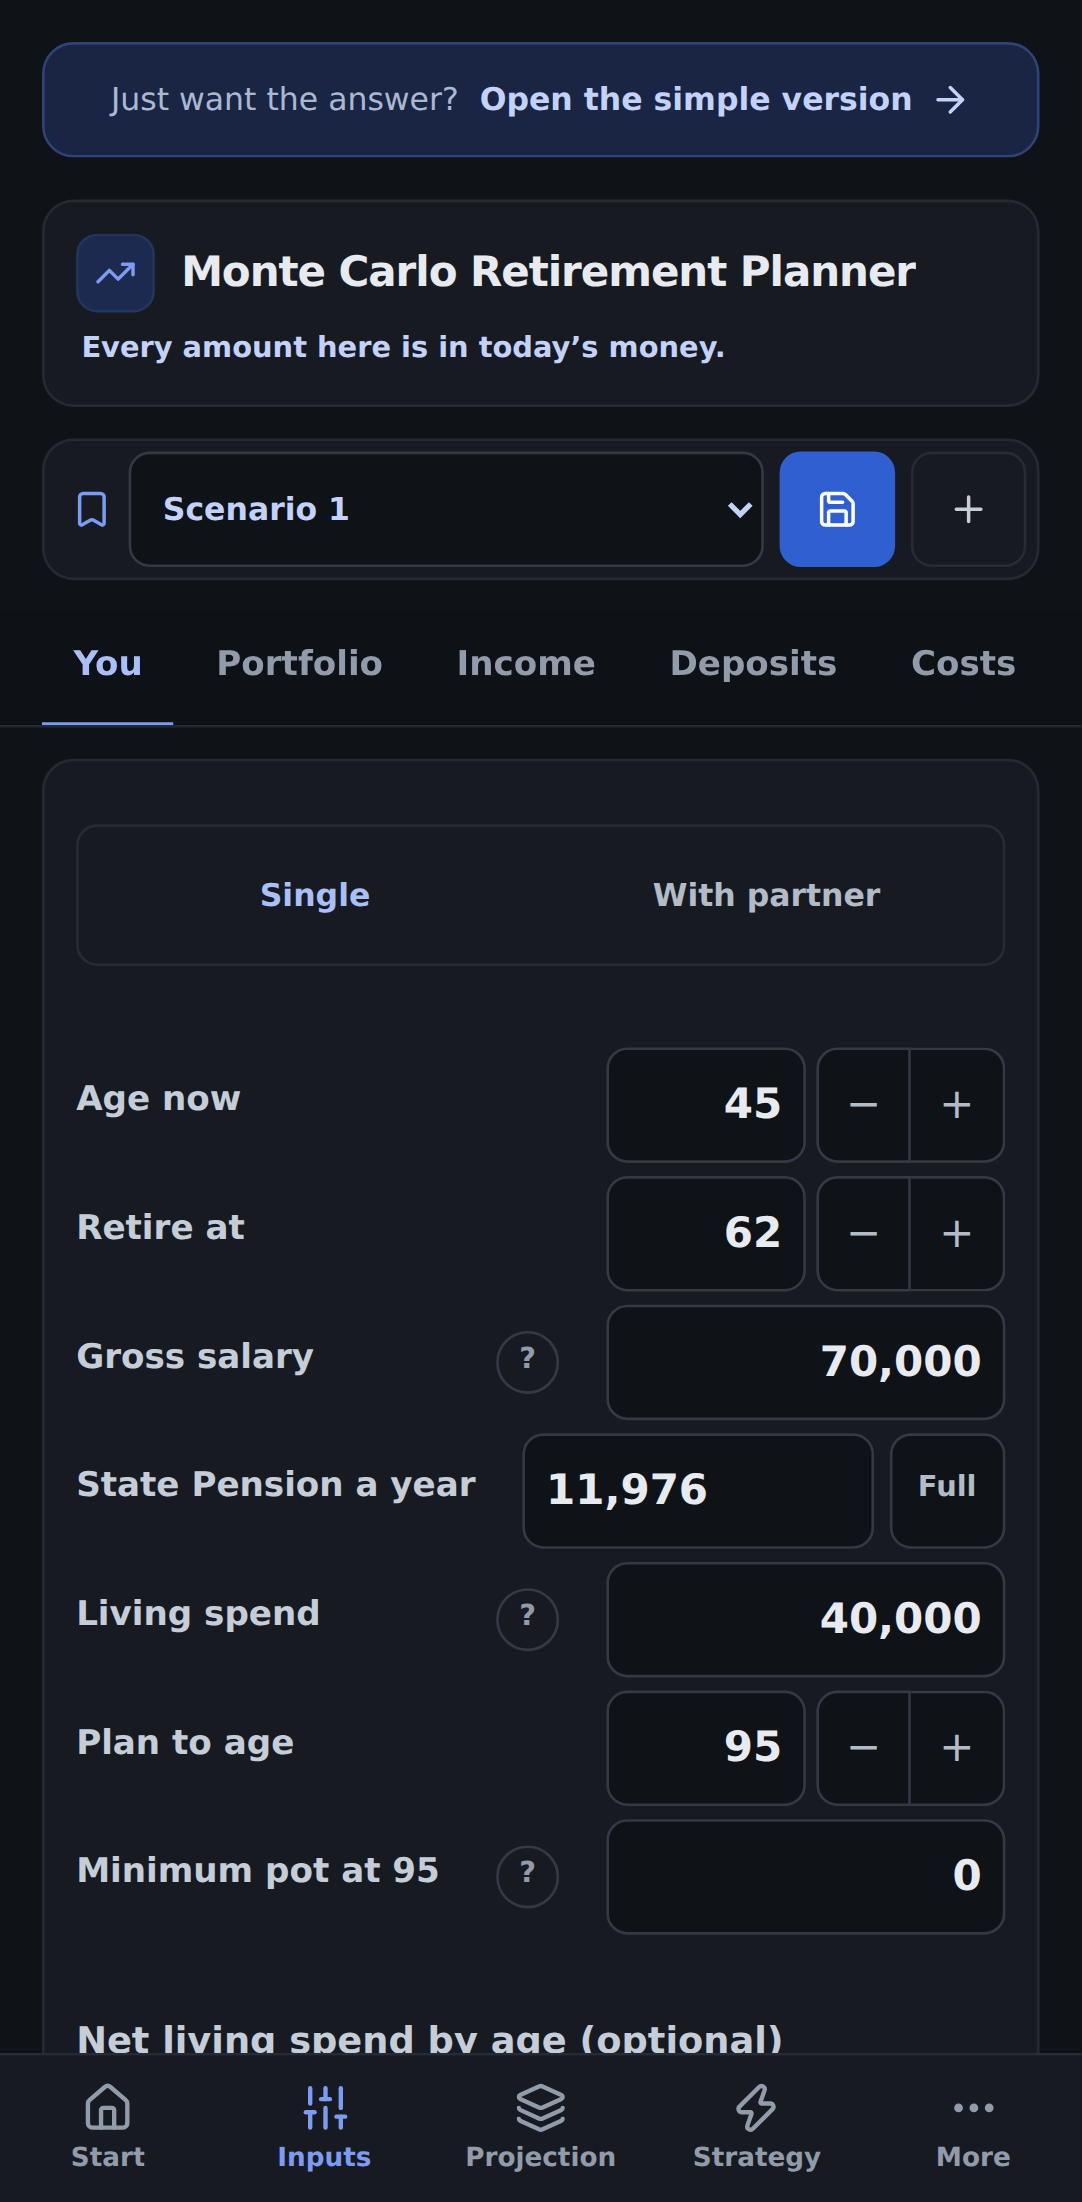
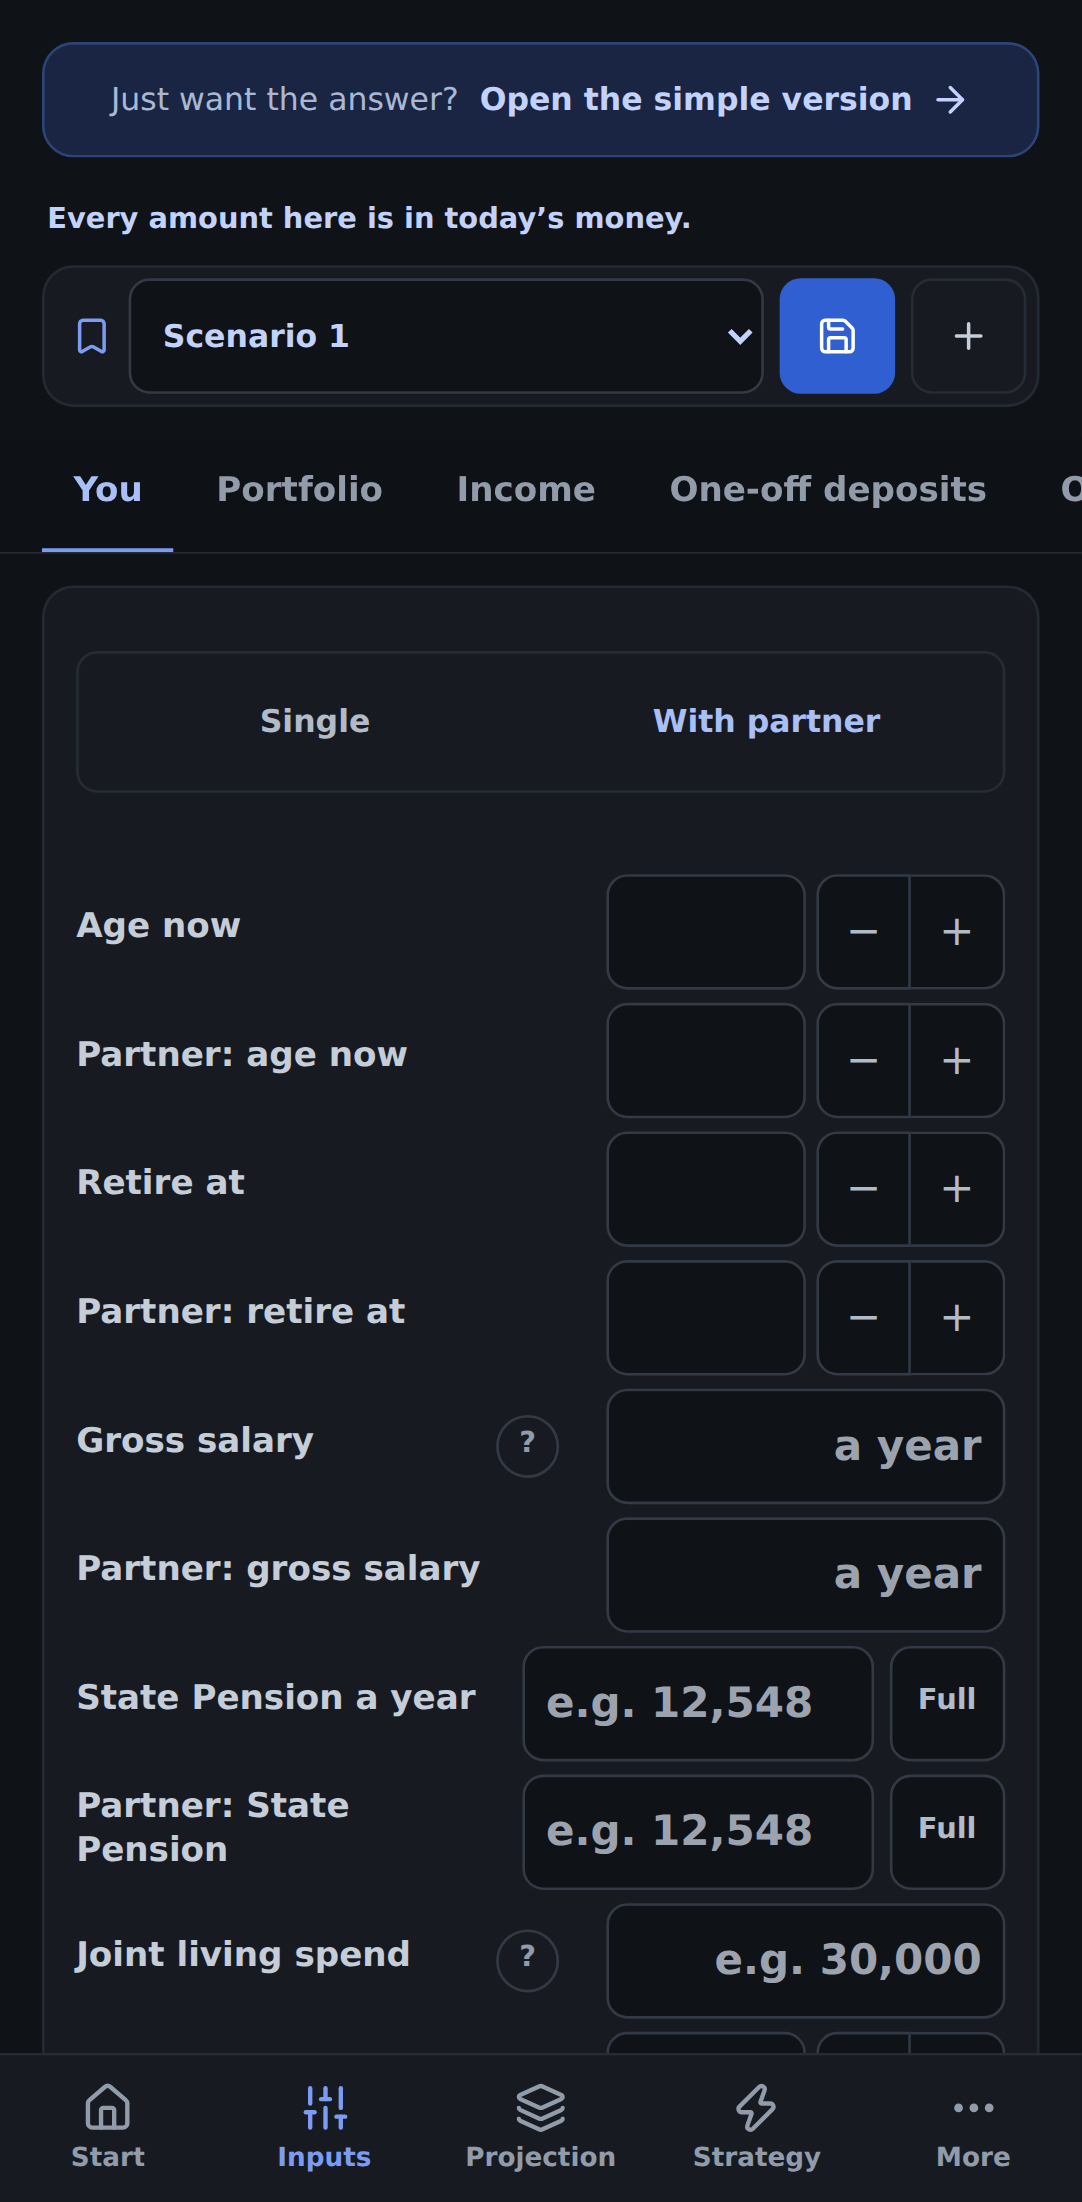
The title card is Start Here's alone on a phone
The bottom bar already names the screen you are on, so the app's own name above
every one of them was a row of a small display spent saying something the reader
had just tapped. It renders on Start Here and nowhere else on a phone. Desktop
is untouched - 217px on every tab, verified, where there is width for it beside
the tab strip.

The one line that lived in it does not go with it. "Every amount here is in
today's money" is the thing somebody has to know BEFORE they type an amount, so
on a phone it stays on Plan Inputs on its own, above the scenario row. It is not
on Projection or Documentation, where there is nothing to type.

With the card gone the first field on Plan Inputs is 333px down, against 431
before this and 1,015 when the second phone pass started.

The harness measured the card as "the first child of the content area", which is
no longer the card on any tab that does not have one. It names it with
data-title-card now, and asserts the absence away from Start Here, the presence
and one-row height on it, and that the today's-money line survived the card it
used to live in.

Claude-Session: https://claude.ai/code/session_01TaQoktosoWkMDM62bLjogz

diff --git a/src/App.jsx b/src/App.jsx
@@ -9883,11 +9883,16 @@ ${t.rows.map(r => `<tr class="${r.recommended ? 'total' : ''}"><td>${r.amt > 0 ?
       <div data-app-content className={`max-w-7xl mx-auto ${isPhone ? 'space-y-3' : 'space-y-6'}`}>
 
         {/* Header Bar.
-            ON A PHONE IT IS ONE ROW. Measured at 366px before: a two-line title, a subtitle, a 44px theme
+            ON A PHONE, ONLY ON START HERE. The bottom bar names the screen you are on, so the app's own
+            name above every screen is a row of a small display spent saying something you already know.
+            It stays in full on every desktop tab, where there is width for it beside the tab strip.
+
+            WHEN IT IS ONE ROW. Measured at 366px before: a two-line title, a subtitle, a 44px theme
             toggle and a four-line banner, on a screen where the first field was 1,015px down. The subtitle's
             job is done by the Start tab, the version moves to the More sheet's foot, the theme toggle to its
             head, and the banner keeps its first sentence. */}
-        <div className={`bg-surface border border-slate-200/90 rounded-xl ${isPhone ? 'p-3' : 'p-5'}`}>
+        {(!isPhone || activeTab === 'home') && (
+        <div data-title-card className={`bg-surface border border-slate-200/90 rounded-xl ${isPhone ? 'p-3' : 'p-5'}`}>
           <div className="flex flex-col md:flex-row justify-between items-start md:items-center gap-4">
             <div className="min-w-0">
               <div className="flex items-center gap-2.5">
@@ -9939,6 +9944,15 @@ ${t.rows.map(r => `<tr class="${r.recommended ? 'total' : ''}"><td>${r.amt > 0 ?
             </p>
           )}
         </div>
+        )}
+        {/*
+          * The one line that goes with the card follows the fields rather than the title. It is the
+          * thing somebody has to know BEFORE they type an amount, so on a phone it stays on Plan Inputs
+          * even though the card it used to sit in does not.
+          */}
+        {isPhone && activeTab === 'inputs' && (
+          <p data-money-banner className="text-[11px] text-blue-800 px-0.5 -mb-1"><strong className="font-semibold">Every amount here is in today&rsquo;s money.</strong></p>
+        )}
 
         {/* Scenario Toolbar. Plan Inputs only: saving a scenario means saving THE PLAN, so it belongs
             beside the plan, not floating over a chart where it reads as saving what is on screen. */}
